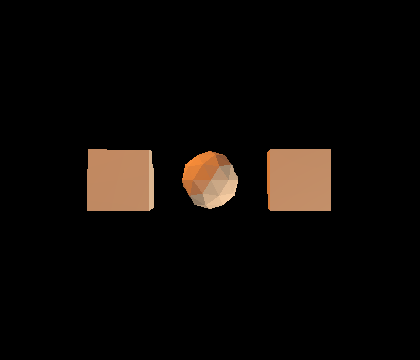
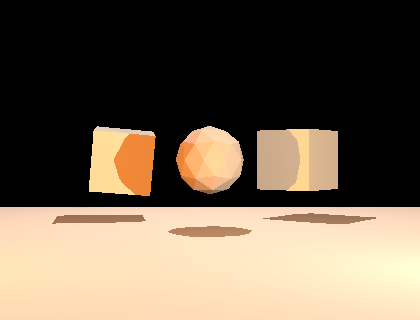
readded camera transform for raster mode

diff --git a/src/geometry_pipeline.rs b/src/geometry_pipeline.rs
@@ -139,8 +139,10 @@ fn apply_transforms(scene: &mut Scene) {
             // for mesh in scene.meshes.iter_mut() {
             let to_world_space = build_translation_transform(object.position.clone());
             mesh.add_transform(to_world_space);
-            // let to_camera_space = build_camera_space_transform(&scene.camera);
-            // mesh.add_transform(to_camera_space);
+            if scene.rendermode == Rendermode::_Rasterize {
+                let to_camera_space = build_camera_space_transform(&scene.camera);
+                mesh.add_transform(to_camera_space);
+            }
 
             mesh.apply_transformations();
         }

diff --git a/src/scene.rs b/src/scene.rs
@@ -15,7 +15,7 @@ pub enum ShaderMode {
     Lit,
 }
 
-#[derive(Clone)]
+#[derive(Clone,PartialEq)]
 pub enum Rendermode {
     _RayTrace,
     ThreadedRayTrace,
